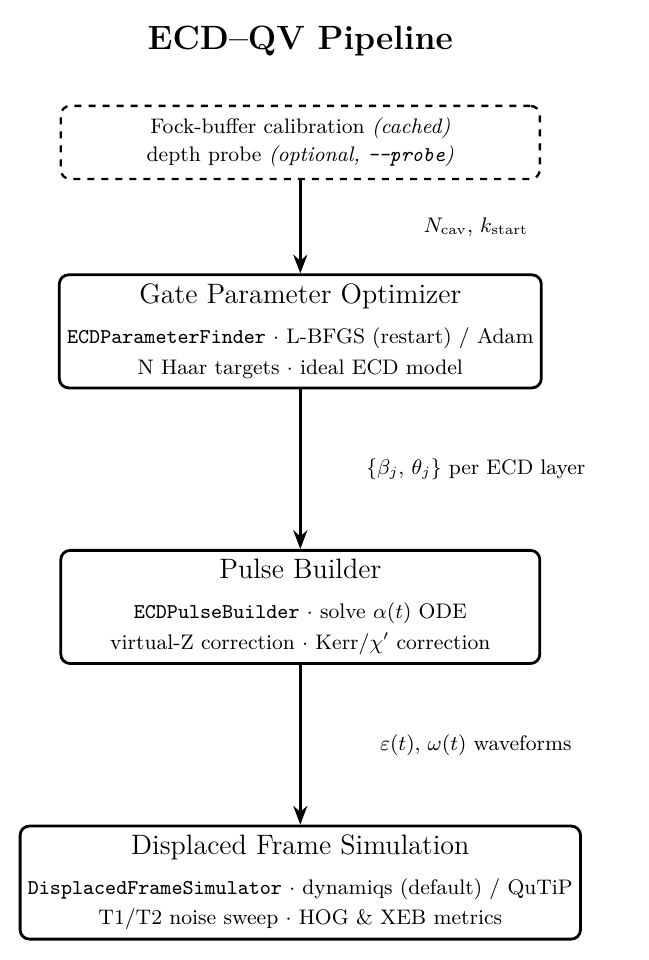
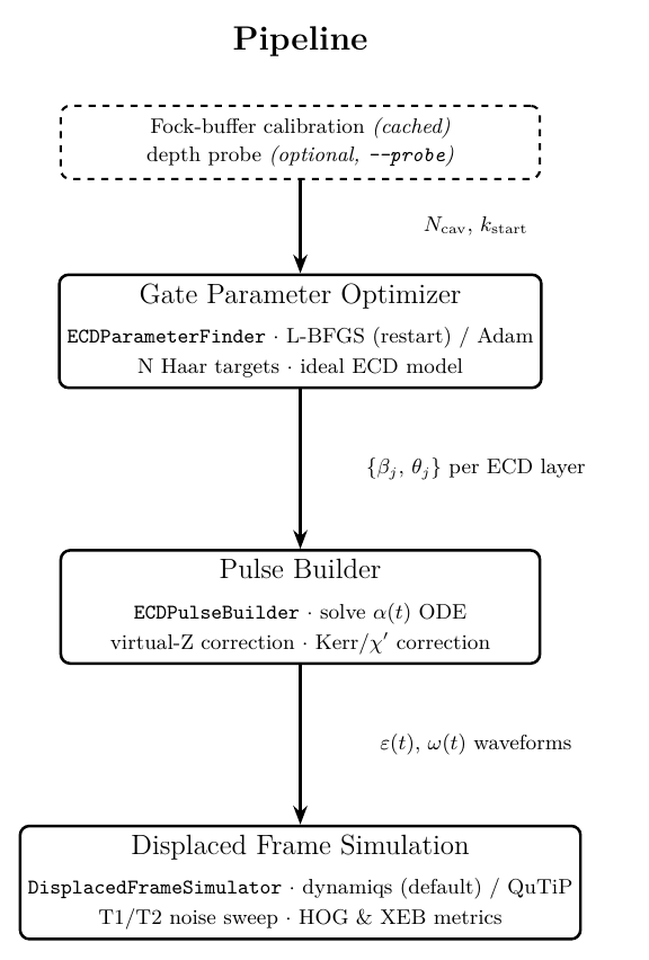
update figure header

diff --git a/docs/pipeline_flow.tex b/docs/pipeline_flow.tex
@@ -30,7 +30,7 @@
     lbl/.style={font=\small, align=center, text width=4.4cm}
 ]
 
-\node[font=\Large\bfseries] (title) {ECD--QV Pipeline};
+\node[font=\Large\bfseries] (title) {Pipeline};
 
 \node[prep, below=0.6cm of title] (calib) {
     Fock-buffer calibration \emph{(cached)} \\[1pt]
